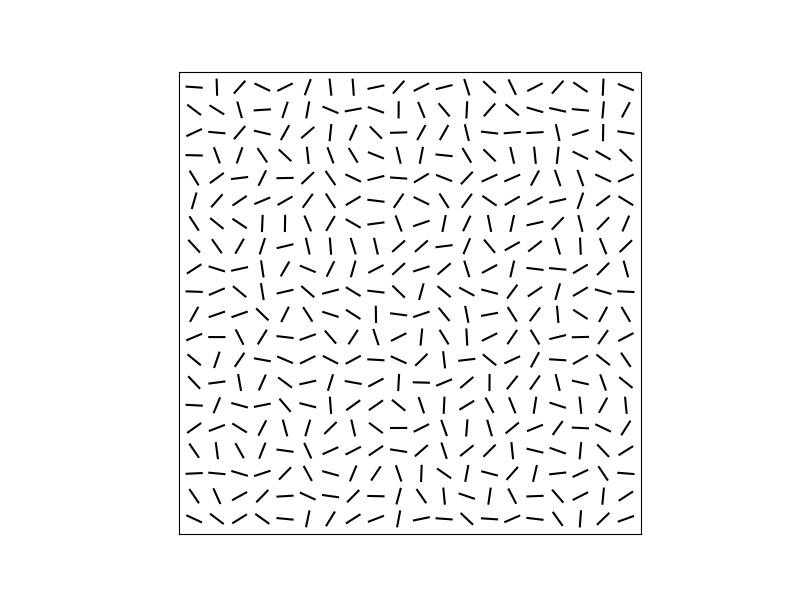
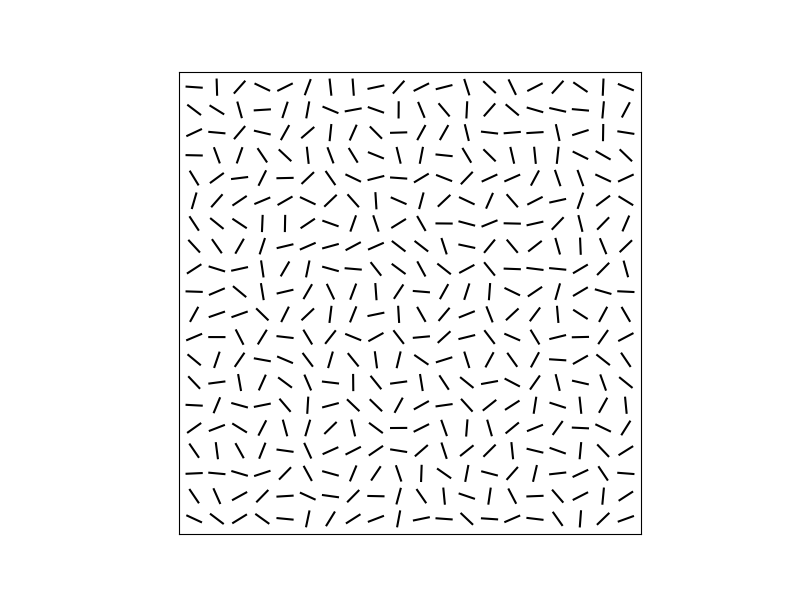
Make inner roxels rotate clockwise and twice as fast

Changed region(s): [[0.375, 0.33, 0.6562, 0.69]]

diff --git a/scripts/make_square_gif.py b/scripts/make_square_gif.py
@@ -40,7 +40,7 @@ def main():
             y = ((i_y + 1) * s * d) + ((i_y + 0.5) * d)
             phase = random.uniform(0, 2 * np.pi)
             if square.is_inside_square(x, y):
-                rotations_per_second = abs_rotations_per_second
+                rotations_per_second = -2*abs_rotations_per_second
             else:
                 rotations_per_second = -abs_rotations_per_second / 3
             roxel = Roxel(x, y, d * 0.5, phase, rotations_per_second)
